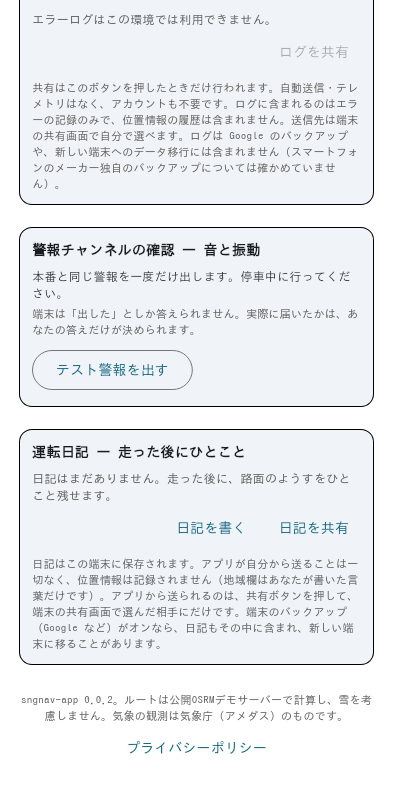
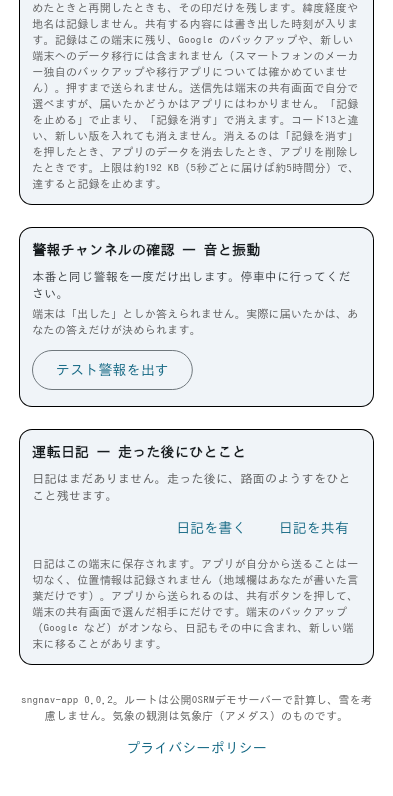
Code 15 only: declare its card on her page, the frame it moves, ASCII placeholder
- developer_page_test: code 15's record card is declared in her page's card
  order, as code 13's was (10 cards to 11 in this build only).
- ladder_out/drive_diary/diary_card_ja.png: regenerated. The diary card is
  unchanged; the card above it in the frame is now code 15's record card
  instead of the log card. Before and after were looked at.
- The count line's placeholder uses ASCII brackets: U+27E8/U+27E9 are not in
  the bundled symbol font and would draw as empty boxes on a phone.

Changed region(s): [[0.0916, 0.0, 0.916, 0.2412]]

diff --git a/test/widgets/developer_page_test.dart b/test/widgets/developer_page_test.dart
@@ -37,6 +37,15 @@ List<String> _herTitles(AppL10n l) => [
       l.prefectureObservationsSectionTitle,
       l.advisoriesSectionTitle,
       l.logShareSectionTitle,
+      // 2026-10-10, CODE 15 ONLY (a test build on a branch that is never
+      // merged), as code 13's was: the fix-interval record's own card.
+      // DECLARED here, as this guard asks. Why it is on his page and not the
+      // development page: the record is shared by the man driving it, from a
+      // release build, and the development page is hard-gated on
+      // `!kReleaseMode`. Her page goes from 10 cards to 11 in this build only;
+      // whether that costs her the glance is for the display review to
+      // decide, not this test.
+      l.code15RecordSectionTitle,
       // 2026-09-19 — the warning-channel check. DECLARED here, never
       // worked around: this guard exists so that adding a card to the driver's page is
       // a deliberate act, and it caught this one. Why it belongs on her page

diff --git a/lib/l10n/app_localizations.dart b/lib/l10n/app_localizations.dart
@@ -2250,7 +2250,7 @@ class AppL10n {
   //   does, so this build cannot pass its suite with it.
 
   /// Marks a sentence no ruling seat has drafted.
-  static const String kWordsNotDraftedMark = '⟨PLACEHOLDER';
+  static const String kWordsNotDraftedMark = '[PLACEHOLDER';
 
   /// Section title (code 13's).
   String get code15RecordSectionTitle =>
@@ -2354,7 +2354,7 @@ class AppL10n {
   }) =>
       '$kWordsNotDraftedMark code15RecordCount ${_ja ? 'ja' : 'en'}: '
       'moving $movingMinutes min, stopped $stoppedMinutes min, minimum '
-      '${minimumReached ? 'reached' : 'not yet'}⟩';
+      '${minimumReached ? 'reached' : 'not yet'}]';
 
   // ===== Ring-2 運転日記 — post-drive diary surface (three-month plan §2) =====
   //
